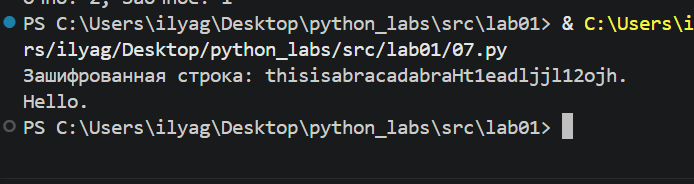
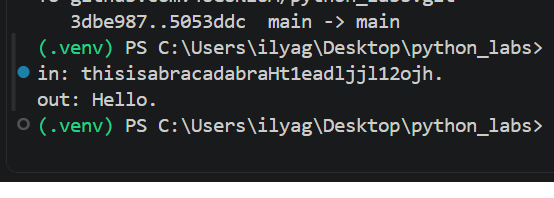
fix pic2

diff --git a/src/lab01/07.py b/src/lab01/07.py
@@ -1,4 +1,4 @@
-N = input('Зашифрованная строка: ')
+N = input('in: ')
 
 First = ''
 Second = ''
@@ -22,7 +22,7 @@ result = ''
 for n in range(Fp, len(N), Interval):
     result += N[n]
 
-print(result)
+print(f'out: {result}')
 
 
 
